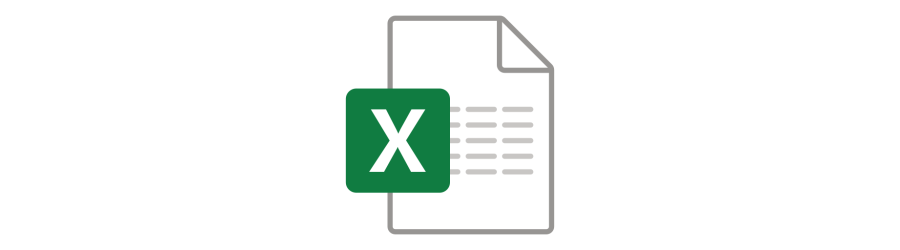
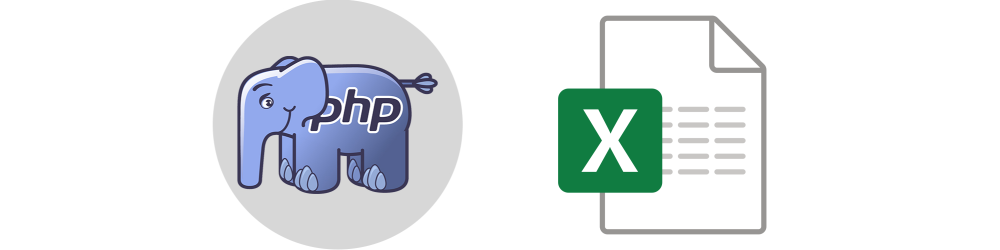
post finish

Changed region(s): [[0.1867, 0.0, 0.7778, 1.0]]

diff --git a/content/posts/2023-12-smis-report/index.md b/content/posts/2023-12-smis-report/index.md
@@ -2,39 +2,27 @@
 title = '智慧防疫物資管理系統：通報'
 slug = '2023-12-smis-report'
 date = 2023-12-19T14:12:43+08:00
-draft = true
+draft = false
 isCJKLanguage = true
 showToc = true
 TocOpen = true
 categories = ['PHP']
-tags = []
+tags = ['智慧防疫物資管理系統','smis','xlsx','application/vnd.ms-excel','Excel','package','Composer','phpoffice','phpspreadsheet','composer.json','composer install','composer require','autoload.php','Spreadsheet','getDefaultStyle','getFont','getNumberFormat','setName','setSize','setFormatCode','getActiveSheet','setTitle','setCellValue','setCellValueByColumnAndRow','changing','疾病管制署','CDC','醫事人員晶片卡']
 [cover]
 image = 'xlsx.png'
 +++
-前一篇文章提到，我們將三到四個月的資料匯出後使用已通報資料庫篩選比對，形成真的需要通報的資料，並且存回已通報資料庫。
+前一篇文章提到，我們將三到四個月的資料匯出後使用已通報資料庫篩選比對，形成真的需要通報的資料，並存回已通報資料庫。
 
-已目前的通報病人數量來說，每天最少通報 1 筆，最多則有通報 98 筆的狀況，想當然爾無法逐筆點按疾管署[智慧防疫物資管理系統](https://smis.cdc.gov.tw/smis/)網站的表單，還好網站提供多筆批次匯入的方法。
+以目前的通報數量來說，每天最少通報 1 筆，最多則有 98 筆，想當然爾無法逐筆輸入疾管署[智慧防疫物資管理系統](https://smis.cdc.gov.tw/smis/)提供的網頁表單，還好網站提供多筆批次匯入的方法。
 
 {{< figure src="smis-xlsx-upload.png" width="80%" alt="Batch-import-data-to-SMIS" align="center" >}}
 
-所以接下來我們要利用 php 把資料庫中的資料存成 xlsx 檔，下載後手動匯入網頁中。
+因為目前網站只接受 xlsx 格式，所以接下來我們要利用 php 把資料庫中的資料存成 xlsx 檔，下載後利用網站上的表單上傳網頁。
 ***
 ## 流程規劃
-需要通報的資料在規劃中完成通報後，會增加一個 `insertdate` 欄位並將資料存回資料庫中，因此只需要利用該欄位即可把需要通報的資料查出來。
+需要通報的資料在完成通報存回資料庫時，會利用 `insertdate` 欄位註記資料存進資料庫的時間，因此只要利用該欄位，即可把當天或某一天需要通報的資料查詢出來。
 
-在[智慧防疫物資管理系統](https://smis.cdc.gov.tw/smis/)中對於藥品其實還分成三大類，同一大類的藥品可以同時寫在一個 Excel 檔中進行通報。
-
-流程規劃長這個樣子，獨立開一頁出來，或是直接作在同一頁上也可以，當接到變數時，撈資料庫中的指定 `insertdate` ，並回傳資料下載：
-```mermaid
-flowchart LR
-    A("資料比對介面.php") --> B[["參數：\ninsertdate\ncategory"]]
-    style B text-align:left
-    B-->C("Excel 下載頁面.php")
-    C<-.->|資料存取|D[("已通報資料庫")]
-    C-->E(("Excel 檔案.xlsx"))
-```
-
-程式可以這樣寫：
+在[智慧防疫物資管理系統](https://smis.cdc.gov.tw/smis/)中，又另外把藥品分成三大類，同一大類的藥品可以寫在同一個 Excel 檔中進行通報。但因為對於藥品管理而言，我們是直接以藥品名稱區分資料，因此分類的部分並不會存在資料庫裡，而且直接在 php 存成陣列處理。
 ```php
 <?php
 // 智慧防疫物資管理系統的分類
@@ -43,12 +31,27 @@ $smis_category = [
     "防疫藥品器材" => ["Evusheld", "Remdesivir"],
     "新興傳染病用藥" =>  ["Paxlovid", "Molnupiravir"]
 ];
+```
 
+程式規劃的部分，會將生成 xlsx 檔案的程式獨立出來，可以單獨一個 php 頁面，或是直接作在資料比對介面上也可以，當程式接到變數 `insertdate` 和剛剛的大分類 `category` 時，便會自動下載 xlsx 檔案：
+```mermaid
+flowchart LR
+    A("資料比對介面.php") --> B[["變數：\ninsertdate\ncategory"]]
+    style B text-align:left
+    B-->C("Excel 下載頁面.php")
+    C<-.->|資料存取|D[("已通報資料庫")]
+    C-->E(("Excel 檔案.xlsx"))
+```
+
+程式可以這樣寫：
+```php
 // 取得 "insertdate" 和 "category" 的 URL 變數
 $insertdate = $_GET["insertdate"];
 $sql = "SELECT * FROM `smis` WHERE `insertdate` = '$insertdate'";
 if ((isset($_GET["category"]))&&($_GET["category"]!="")) {
+
     $category = $_GET["category"];
+
     if ($category=="新興傳染病用藥") {
         $sql .= " AND (`medicine` = 'Paxlovid' OR `medicine` = 'Molnupiravir')";
     } elseif ($category=="防疫藥品器材") {
@@ -68,13 +71,14 @@ $records = $conn->query($sql)->fetchAll(PDO::FETCH_ASSOC);
 ```
 ***
 ## 直接在瀏覽器中顯示並下載
-有了資料之後，就要用資料開始製作 xlsx 檔，最簡單的寫法是以 `\t` 當作欄位分隔線， `\n` 換行，直接將內容輸出在 php 變數中後，使用 `exit()` 方法印在瀏覽器上，再加入 `Content-type` 和 `Content-Disposition` 讓瀏覽器知道以下的內容是必須下載的：
+利用 sql 查詢出資料之後，就可以迭代資料陣列開始製作 xlsx 檔，最簡單的寫法是以 `\t` 當作欄位分隔線， `\n` 換行，直接將內容以字串的方式寫在同一個 php 變數中後，最後使用 `exit()` 方法印在瀏覽器上，再加入 `Content-type` 和 `Content-Disposition` 讓瀏覽器知道內容是附件，必須下載：
 ```php
 // 欄位名稱：欄位會因為 category 不同而有變更
 $excel = "姓名\t出生年月日YYYY/MM/DD\t身分證字號\t給藥日期YYYY/MM/DD\t投藥劑量\t物資項目代碼\t批號\t用藥對象\n";
 
-// 資料
+// 迭代資料
 foreach ($records as $record) {
+    // 利用 .= 延長字串
     $excel .= $record["ptname"]."\t";
     $excel .= date("Y/m/d", strtotime($record["ptbirth"]))."\t";
     $excel .= $record["ptid"]."\t";
@@ -85,21 +89,25 @@ foreach ($records as $record) {
     $excel .= "\t";
     $excel .= "\n";
 }
+
 // 下載成 Excel 檔
 header("Content-type: application/vnd.ms-excel");
 header("Content-Disposition: attachment; filename=.xlsx");
 exit($excel);
 ```
-然而利用瀏覽器直接下載的方法，欄位的格式會在第一次由電腦中的 Excel 開啟檔案時依照欄位的型態自行判斷，也就是說日期的欄位雖然是 YYYY/MM/DD ，Excel 軟體可能判斷為日期或字串，因此在上傳到智慧防疫物資管理系統時就會因為格式不相符而被系統拒絕。
+
+然而利用瀏覽器直接下載的方法，會依照欄位既有的字串由 Excel 自行判斷欄位的格式，也就是說日期的欄位雖然是 YYYY/MM/DD ， Excel 軟體可能判斷為日期或字串，因此在上傳到智慧防疫物資管理系統時就會因為格式不相符而被系統拒絕。
 
 ***
 ## 使用套件製作 xlsx 檔案
-為了避免電腦裡的 Excel 軟體幫我們決定格式，比較好的方法是製作 xlsx 檔案的時候就要指定格式，但是單純用瀏覽器下載的方式並無法作到這種複雜的操作，因此需要利用 php 的套件 (packages) 來幫忙我們完成。
+為了避免 Excel 軟體幫我們決定格式，比較好的方法是製作 xlsx 檔案的時候就要指定格式，但是單純用字串完成整個檔案再經瀏覽器下載的方式並無法操作格式轉換等精細複雜的操作，因此需要利用 php 的套件 (packages) 來幫忙我們完成。
+
 ### 安裝 Composer
-當我們使用 Python 需要更進階的操作或是方法時，我們會去搜尋有沒有已經寫好的函式庫可供引入，例如 pandas 、 PIL 等等。我們會在終端機使用指令將函式庫安裝在本地端：
+什麼是 php 的套件？舉個例子，當我們使用 Python 需要更進階的操作或是方法時，會去找尋函式庫並且引入，例如如果需要操作數據列表就會想到 pandas 、製作圖像或分析圖像就會想到 PIL 、或甚至要操作鍵盤滑鼠要用到的 pyAutoGUI 等等，為了使用這些函式庫，我們會在終端機使用指令將函式庫下載並安裝完成：
 ```powershell
 pip install pandas
 pip install Pillow
+pip install pyAutoGUI
 ...
 ```
 
@@ -107,13 +115,14 @@ pip install Pillow
 ```python
 import pandas as pd
 from PIL import Image
+import pyautogui
 ```
 
-php 也一樣具有安裝函式庫及引入函式庫的方法： Composer 就是一個類似 pip 的程式，因為 php 不像 python 一開始安裝就先把 pip 包含在 python 的安裝檔之中，所以必須到 [Composer](https://getcomposer.org/) 的官方網站去下載軟體並且安裝，我的環境是 Windows 就直接使用 Windows Installer 即可。
+php 也一樣具有安裝函式庫及引入函式庫的方法，不過在 php 中稱為套件，而相對於 pip ， php 管理、下載、安裝套件的軟體就是 Composer ，不過 php 不像 python 一開始安裝就先把 pip 包含在 python 的安裝檔之中，所以我們必須到 [Composer](https://getcomposer.org/) 的官方網站去下載軟體並且安裝，我的環境是 Windows 就直接使用 Windows Installer 即可。
 
-安裝過程中要告訴 Installer php.exe 的位置，以我使用 xampp 的開發環境來說，位置通常在 `安裝目錄\xampp\php\` 底下。不過使用 Windows 安裝 php 的時候，大部分預設都會加入環境變數，所以 Installer 通常都可以自己找到。
+安裝過程中要告訴 Installer php.exe 的位置，以我使用 xampp 的開發環境來說，位置通常在 `安裝目錄\xampp\php\` 底下。不過使用 Windows 安裝 php 的時候，大部分預設會將 php.exe 存在的目錄加入環境變數，所以 Installer 通常都可以自己找到。
 
-安裝完畢之後可以在 cmd 等 CLI 視窗中輸入 `composer` 來確認是否有安裝成功，如果出現了以下的歡迎畫面，表示安裝成功了：
+安裝完畢之後可以在 cmd 或 powershell 等 CLI 視窗中輸入 `composer` 來確認是否有安裝成功，如果出現了以下的歡迎畫面，表示安裝成功了：
 ```powershell
    ______
   / ____/___  ____ ___  ____  ____  ________  _____
@@ -123,8 +132,9 @@ php 也一樣具有安裝函式庫及引入函式庫的方法： Composer 就是
                     /_/
 Composer version 2.6.5 2023-10-06 10:11:52
 ```
+
 ### 安裝套件 phpoffice/phpspreadsheet
-接著需要安裝套件，不過因為開發環境的關係，我通常不會像 python 直接以 `pip install` 的方式安裝在全域 (電腦主機) 裡面，而是伺服器根目錄底下另外開資料夾，然後在該資料夾中安裝套件。例如：
+接著需要安裝套件，因為開發環境的關係，通常不會像 python 直接以 `pip install` 的方式安裝在全域 (電腦主機) 裡面，而是伺服器根目錄底下另外開資料夾，然後在該資料夾中安裝套件。例如：
 ```
 .
 ├─ smisdl
@@ -135,7 +145,9 @@ Composer version 2.6.5 2023-10-06 10:11:52
 ```
 在瀏覽器中輸入 `http://localhost/smisdl/smisdl.php` 便可以指向該網頁。
 
-在 `smisdl` 資料夾底新增一個 `composer.json` 檔案，告訴 composer 這個資料夾底下要安裝的套件名稱：
+>php 的主流框架 Laravel 亦可以利用 composer 安裝，就會使用全域安裝的方式讓 CLI 可以直接下 laravel 的指令。而現在 Laravel 官網建議使用 Docker Desktop ，這又是另外一件事了。
+
+在 `smisdl` 資料夾底下新增一個 `composer.json` 檔案，告訴 composer 這個資料夾底下要安裝的套件名稱：
 ```json
 {
     "require": {
@@ -144,7 +156,7 @@ Composer version 2.6.5 2023-10-06 10:11:52
 }
 ```
 
-將 cmd 或 Powershell 等  CLI 視窗的路徑移動到該資料夾，並輸入 composer 安裝的指令：
+在 cmd 或 powershell 等  CLI 視窗利用指令 `cd` 將目前工作路徑移動到該資料夾，並輸入 composer 安裝的指令 `composer install` ：
 ```powershell
 C:\> cd C:\網頁根目錄\smisdl
 C:\網頁根目錄\smisdl> composer install
@@ -156,7 +168,7 @@ C:\網頁根目錄\smisdl> composer install
 ```powershell
 C:\網頁根目錄\smisdl> composer require phpoffice/phpspreadsheet
 ```
-也可以達到一樣的效果。
+也可以達到一樣的效果，~~只是字很長我很懶~~。
 
 ### 使用套件
 接著在 php 網頁中引入套件，就像是 python 裡面的 `import` ，不過要引入的東西可能要參考各套件的[說明](https://phpspreadsheet.readthedocs.io/en/latest/)：
@@ -167,20 +179,18 @@ use PhpOffice\PhpSpreadsheet\Spreadsheet;
 use PhpOffice\PhpSpreadsheet\Writer\Xlsx;
 ```
 
-跟上面一樣先將資料查詢出來：
-```php
-// 智慧防疫物資管理系統的分類
-$smis_category = [
-    "流感抗病毒藥劑" => ["Tamiflu", "Eraflu", "Oseltamivir", "Relenza"],
-    "防疫藥品器材" => ["Evusheld", "Remdesivir"],
-    "新興傳染病用藥" =>  ["Paxlovid", "Molnupiravir"]
-];
+唯一不會變的都是第一行的 `require "vendor/autoload.php";` ，意思是這個 php 接下來的 `use` 都要參考 `autoload.php` 把套件 load 進來。接著才會 `use` 引入套件的物件 (object) 或類別 (class) 。
 
+
+跟瀏覽器直接下載一樣先將資料查詢出來：
+```php
 // 取得 "insertdate" 和 "category" 的 URL 變數
 $insertdate = $_GET["insertdate"];
 $sql = "SELECT * FROM `smis` WHERE `insertdate` = '$insertdate'";
 if ((isset($_GET["category"]))&&($_GET["category"]!="")) {
+
     $category = $_GET["category"];
+
     if ($category=="新興傳染病用藥") {
         $sql .= " AND (`medicine` = 'Paxlovid' OR `medicine` = 'Molnupiravir')";
     } elseif ($category=="防疫藥品器材") {
@@ -197,6 +207,7 @@ $conn_pwd = "密碼";
 $conn = new PDO($dsn, $conn_user, $conn_pwd);
 $conn -> exec("SET NAMES utf8");
 $records = $conn->query($sql)->fetchAll(PDO::FETCH_ASSOC);
+
 ```
 
 開始製作 xlsx 檔案，首先是整個檔案的設定：
@@ -204,15 +215,15 @@ $records = $conn->query($sql)->fetchAll(PDO::FETCH_ASSOC);
 $spreadsheet = new Spreadsheet();
 $spreadsheet->getDefaultStyle()->getFont()->setName("微軟正黑體");
 $spreadsheet->getDefaultStyle()->getFont()->setSize(12);
-//設定字體與字體大小
+//設定預設字體與字體大小
 $spreadsheet->getDefaultStyle()->getNumberFormat()->setFormatCode("@");
 //設定每一個儲存格為通用格式 @
 ```
 
-再來是一張工作頁 Work Sheet 的裡面：
+再來是建立工作頁 (Work Sheet) ，並編輯內容：
 ```php
 $sheet = $spreadsheet->getActiveSheet()->setTitle("用藥個案");
-//頁籤名稱
+//工作頁頁籤名稱
 $sheet->setCellValue("A1", "姓名");
 //在指定的儲存格 A1 輸入文字：姓名
 $sheet->setCellValue("F1", "給藥日期\nYYYY/MM/DD");
@@ -221,11 +232,12 @@ $sheet->setCellValue("F1", "給藥日期\nYYYY/MM/DD");
 foreach ($records as $key=>$value) {
     $row = $key+2;
     $sheet->setCellValueByColumnAndRow(1, $row, $value["ptname"]);
-    //如果無法指定為 A1 等格式，可以利用這個方法指定 Column 和 Row 序數的儲存格中輸入文字
+    //如果無法指定為 A1 這種英文 + 數字的格式，可以利用這個方法指定 Column 和 Row 序數的儲存格中輸入文字
     ...
 }
 ```
-最後輸出檔案後丟回瀏覽器進行下載：
+
+最後利用 `new Xlsx()` 將物件寫入 xlsx 檔案，並且暫存在伺服器之中。但是我們的目的是要下載這個檔案，所以還是會利用 `header("Content-Disposition:...")` 的方式來下載剛剛存起來的 xlsx 檔，並且利用 php `unlink()` 刪除存在伺服器中的暫存檔：
 ```php
 $writer = new Xlsx($spreadsheet);
 $writer->save($filename);
@@ -236,7 +248,10 @@ unlink($filename);
 exit($content);
 //瀏覽器下載檔案
 ```
-如此就可以達成，當丟了兩個參數給該頁面時，可以產生使用 php 套件產生事先指定每一儲存格格式的 xlsx 檔。另外套件也能作到指定每一儲存格的大小、顏色格式、文字對齊、框線、合併儲存格，甚至可以直接在儲存格裡面輸入 Excel 的公式結果，十分強大。只是我這邊就沒有這種用途了，如果有需要的需要多翻一下套件的[說明](https://phpspreadsheet.readthedocs.io/en/latest/)了。
+
+如此就可以完成，當這個頁面接到兩個參數時，產生事先指定每一儲存格格式的 xlsx 檔。另外套件也能作到指定每一儲存格的大小、顏色格式、文字對齊、框線、合併儲存格等等，甚至可以直接在儲存格裡面輸入 Excel 的公式結果，十分強大。只是這邊就沒有這種需求了，如果有需要的需要多翻一下套件的[說明](https://phpspreadsheet.readthedocs.io/en/latest/)，不過說明其實滿簡陋的，就只能多 google 。
+
+phpspreadsheet 的前身名為 phpExcel ，程式的部分應該都是相通的，可以試試看。
 
 ***
 ## 為什麼還要手動匯入？
@@ -244,7 +259,7 @@ exit($content);
 flowchart LR
     A(("Excel 檔案.xlsx"))-->|自動上傳|B("智慧防疫物資管理系統")
 ```
-最後一定會想要自動化上傳到智慧防疫物資管理系統，畢竟以使用者體驗來看，同一個頁面可以直接完成的作業，一定遠遠勝過還要再開第二或第三頁面。
+下載了檔案，最後一定會想要自動化上傳到智慧防疫物資管理系統，畢竟以使用者體驗來看，同一個頁面可以直接完成的作業，一定遠遠勝過還要再開第二或第三頁面；與其按下按鈕下載檔案，不如按下按鈕直接通報。
 
 雖然是這樣想，但是疾病管制署的網頁是利用醫事人員晶片卡登入，於是該機構的網站[外包商](https://www.changingtec.com/)要求使用者電腦必須額外安裝系統讀卡元件，接著使用讀卡機設備讀取晶片卡、輸入認證碼後才能完成登入。
 
